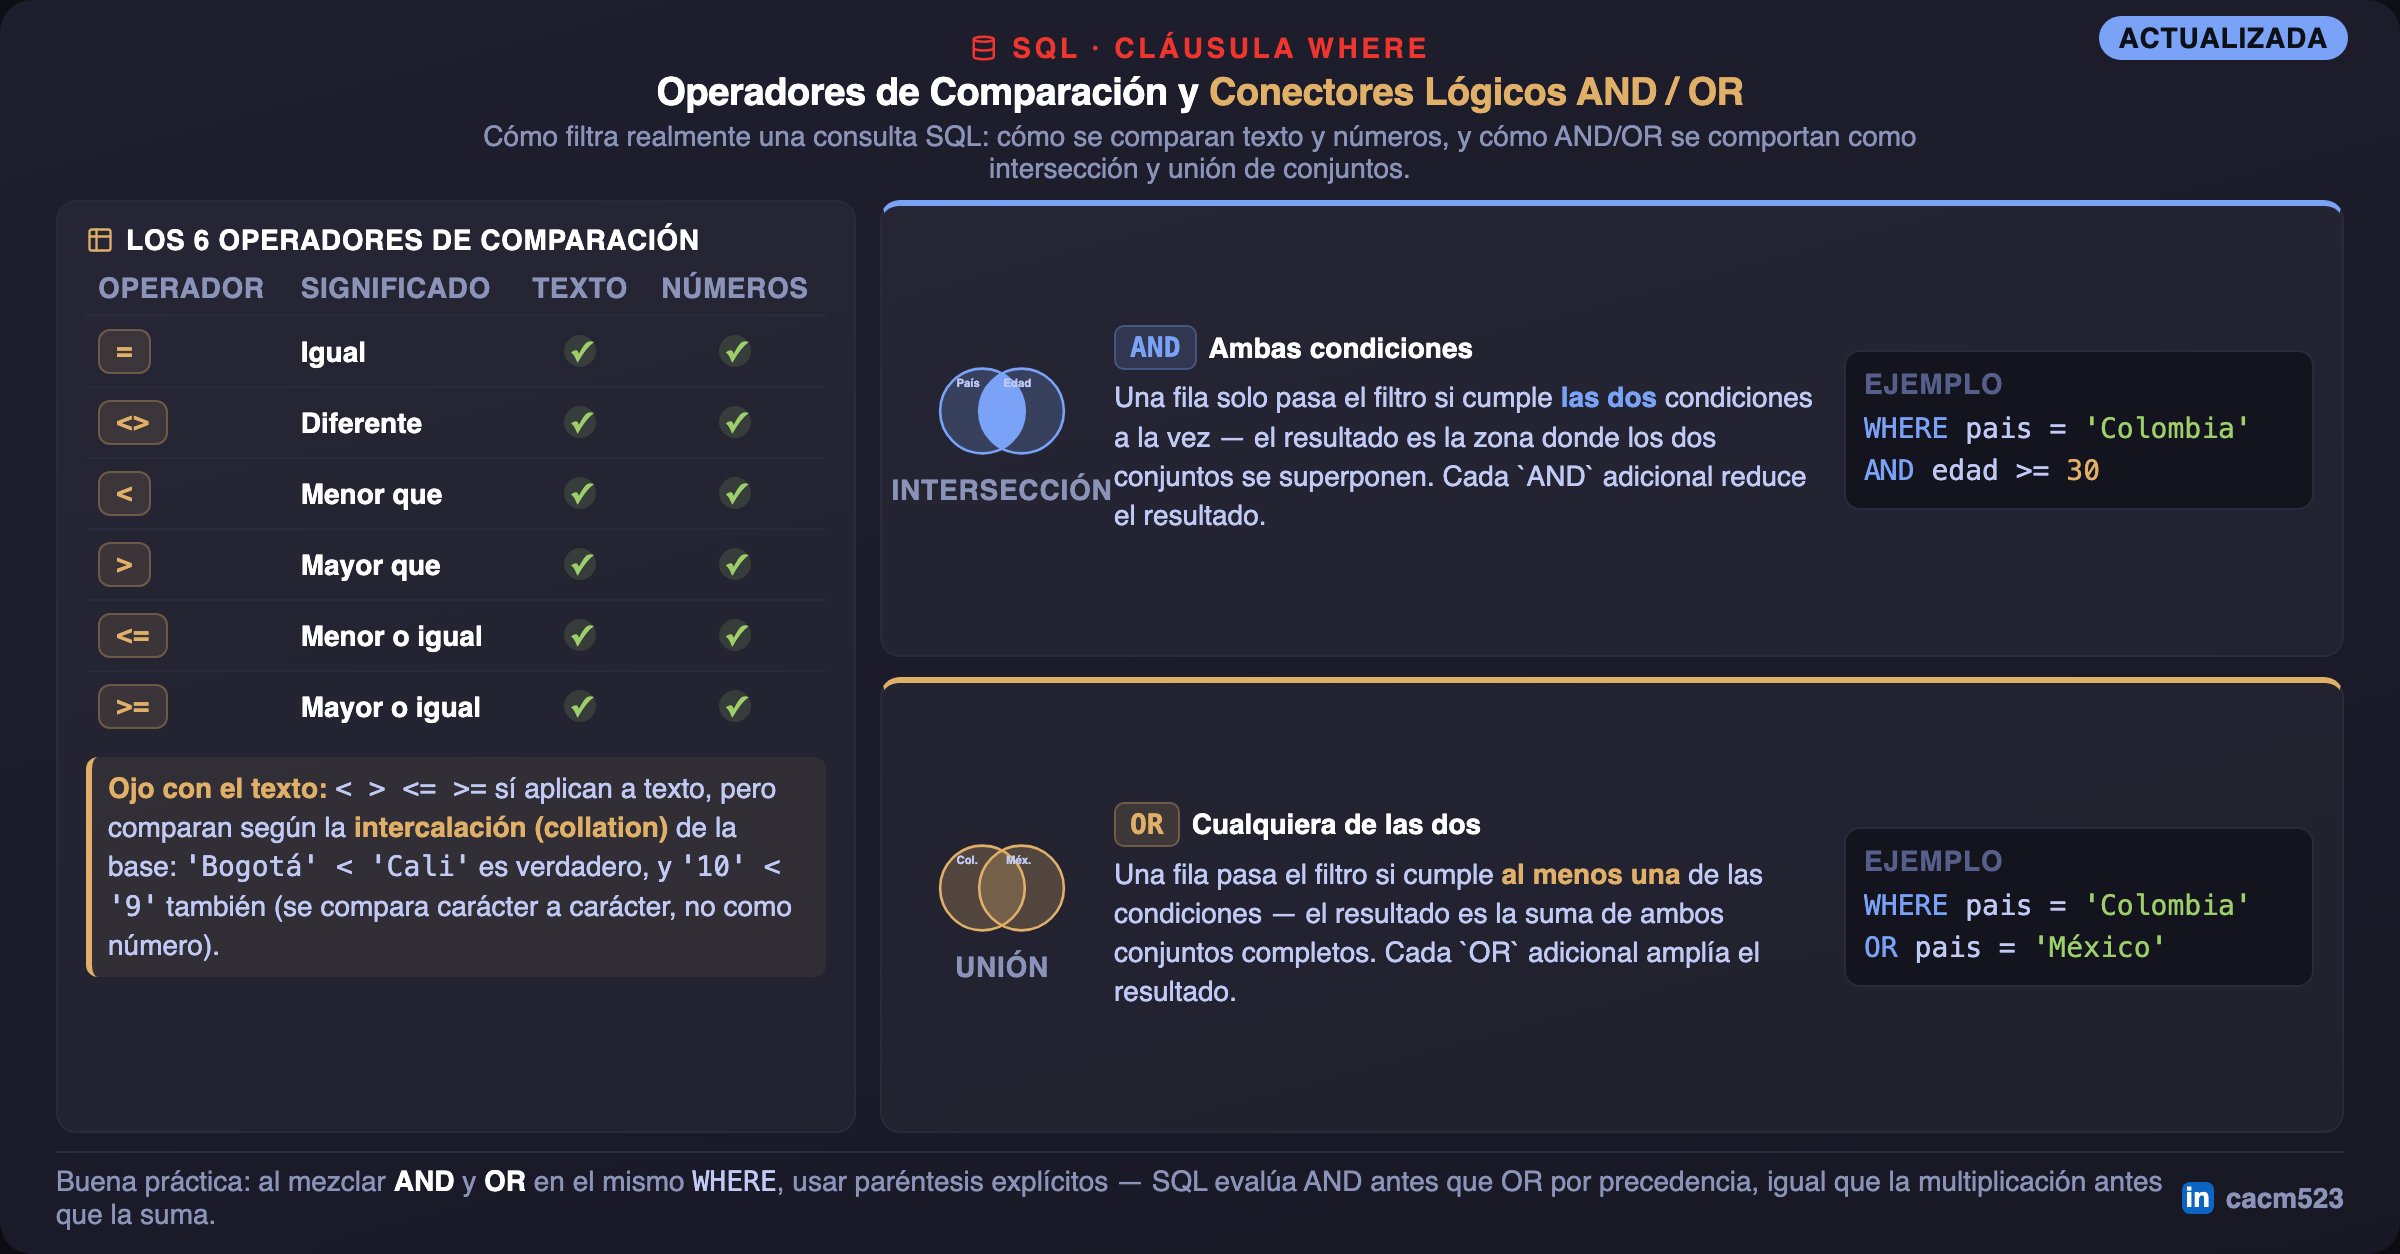
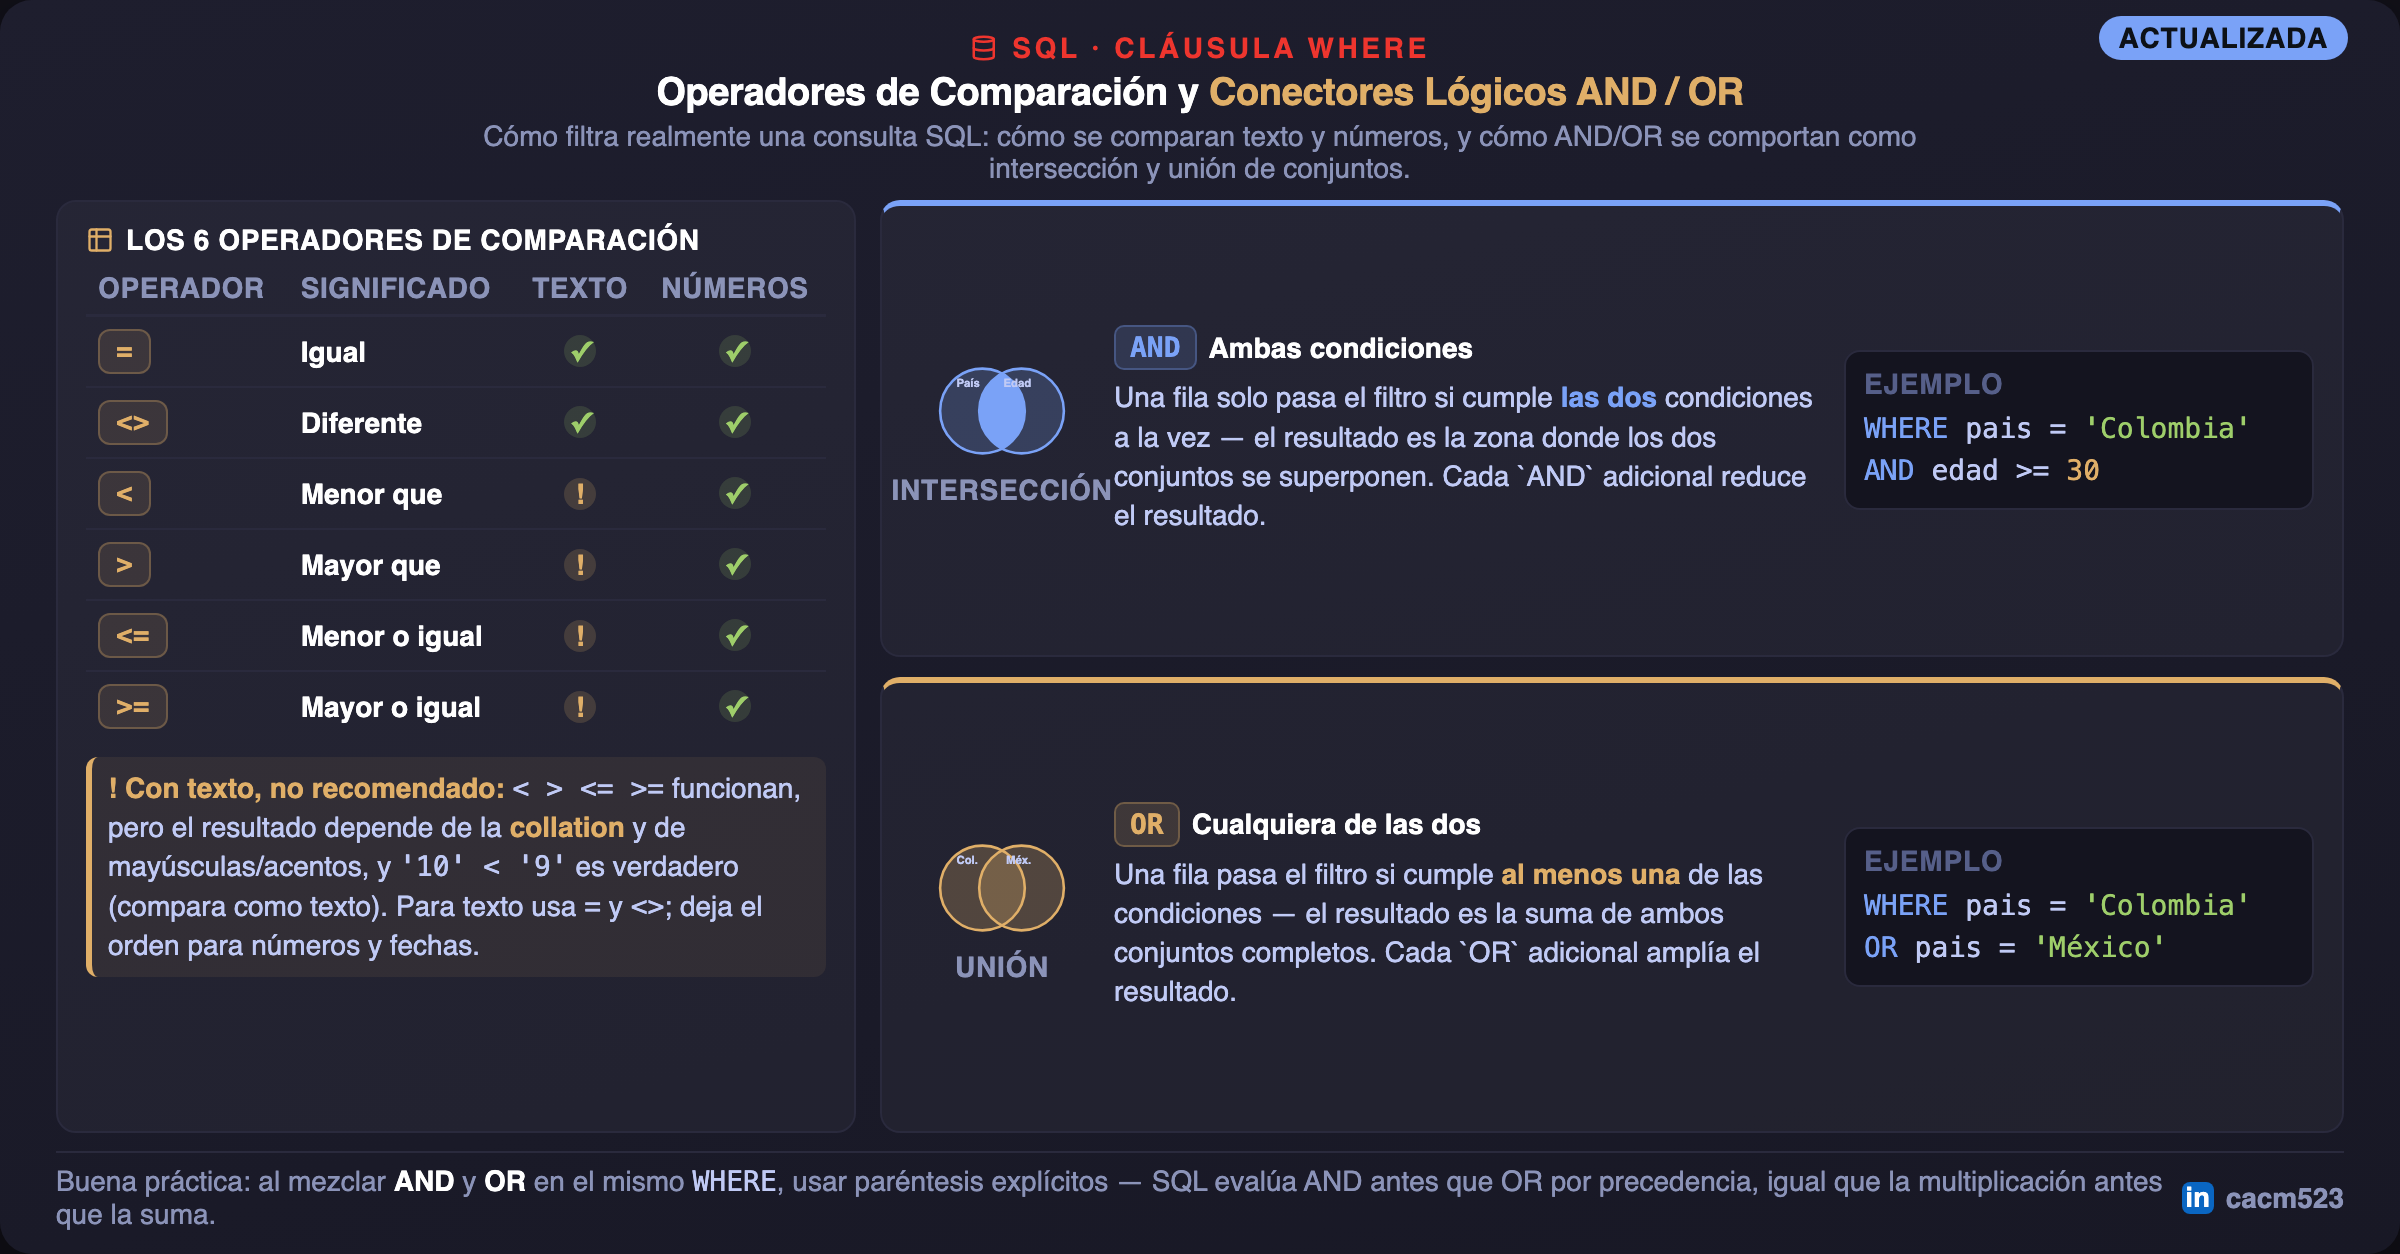
Operadores de orden con texto: marcar como no recomendado en SQL y Python

Changed region(s): [[0.0312, 0.622, 0.3438, 0.7775]]

diff --git a/Construidos/Python/operadores-logicos-comparacion-python.html b/Construidos/Python/operadores-logicos-comparacion-python.html
@@ -101,6 +101,7 @@
   .li-badge{ width:16px; height:16px; border-radius:4px; background:#0A66C2; color:#fff; display:flex; align-items:center; justify-content:center; font-size:14px; font-weight:800; font-family: Arial, sans-serif; }
   .sig span{ font-size:14px; font-weight:700; color:var(--muted); }
   .updated-badge{ position:absolute; top:11px; left:385px; background:var(--pyblue-dark); color:#fff; font-size:14px; font-weight:800; letter-spacing:.4px; text-transform:uppercase; padding:3px 10px; border-radius:20px; }
+  .warn{ display:inline-flex; width:16px; height:16px; border-radius:50%; background:rgba(180,130,0,0.18); color:#8A6500; align-items:center; justify-content:center; font-size:14px; font-weight:800; }
 </style>
 </head>
 <body>
@@ -135,13 +136,13 @@
           <tbody>
             <tr><td><span class="sym">==</span></td><td class="nm">Igual</td><td class="center"><span class="yes">✓</span></td><td class="center"><span class="yes">✓</span></td></tr>
             <tr><td><span class="sym">!=</span></td><td class="nm">Diferente</td><td class="center"><span class="yes">✓</span></td><td class="center"><span class="yes">✓</span></td></tr>
-            <tr><td><span class="sym">&lt;</span></td><td class="nm">Menor que</td><td class="center"><span class="yes">✓</span></td><td class="center"><span class="yes">✓</span></td></tr>
-            <tr><td><span class="sym">&gt;</span></td><td class="nm">Mayor que</td><td class="center"><span class="yes">✓</span></td><td class="center"><span class="yes">✓</span></td></tr>
-            <tr><td><span class="sym">&lt;=</span></td><td class="nm">Menor o igual</td><td class="center"><span class="yes">✓</span></td><td class="center"><span class="yes">✓</span></td></tr>
-            <tr><td><span class="sym">&gt;=</span></td><td class="nm">Mayor o igual</td><td class="center"><span class="yes">✓</span></td><td class="center"><span class="yes">✓</span></td></tr>
+            <tr><td><span class="sym">&lt;</span></td><td class="nm">Menor que</td><td class="center"><span class="warn">!</span></td><td class="center"><span class="yes">✓</span></td></tr>
+            <tr><td><span class="sym">&gt;</span></td><td class="nm">Mayor que</td><td class="center"><span class="warn">!</span></td><td class="center"><span class="yes">✓</span></td></tr>
+            <tr><td><span class="sym">&lt;=</span></td><td class="nm">Menor o igual</td><td class="center"><span class="warn">!</span></td><td class="center"><span class="yes">✓</span></td></tr>
+            <tr><td><span class="sym">&gt;=</span></td><td class="nm">Mayor o igual</td><td class="center"><span class="warn">!</span></td><td class="center"><span class="yes">✓</span></td></tr>
           </tbody>
         </table>
-        <div class="op-note"><b>Texto en Python:</b> <code style="font-family:'SF Mono',monospace">&lt; &gt; &lt;= &gt;=</code> comparan cadenas por código Unicode — <code style="font-family:'SF Mono',monospace">'ana' &lt; 'bruno'</code> es <b>True</b>, pero <code style="font-family:'SF Mono',monospace">'Z' &lt; 'a'</code> también (mayúsculas antes que minúsculas). En SQL el orden depende de la collation de la base.</div>
+        <div class="op-note"><b>! Con texto, no recomendado:</b> <code style="font-family:'SF Mono',monospace">&lt; &gt; &lt;= &gt;=</code> funcionan (comparan por Unicode), pero <code style="font-family:'SF Mono',monospace">'Z' &lt; 'a'</code> y <code style="font-family:'SF Mono',monospace">'10' &lt; '9'</code> son <b>True</b>. Para texto usa <code style="font-family:'SF Mono',monospace">==</code> y <code style="font-family:'SF Mono',monospace">!=</code>; deja el orden para números.</div>
 
         <div class="idpanel">
           <h2><svg viewBox="0 0 24 24" fill="none" stroke="currentColor" stroke-width="2" stroke-linecap="round" stroke-linejoin="round"><circle cx="12" cy="12" r="9"/><path d="M9.5 9a2.5 2.5 0 0 1 5 0c0 1.5-2.5 2-2.5 3.5M12 17h.01"/></svg>Potenciado: identidad y pertenencia</h2>

diff --git a/Construidos/SQL/operadores-comparacion-and-or-sql.html b/Construidos/SQL/operadores-comparacion-and-or-sql.html
@@ -84,6 +84,7 @@
   .li-badge{ width:16px; height:16px; border-radius:4px; background:#0A66C2; color:#fff; display:flex; align-items:center; justify-content:center; font-size:14px; font-weight:800; font-family: Arial, sans-serif; }
   .sig span{ font-size:14px; font-weight:700; color:var(--muted); }
   .updated-badge{ position:absolute; top:8px; right:26px; background:var(--keyword); color:#0D1117; font-size:14px; font-weight:800; letter-spacing:.4px; text-transform:uppercase; padding:3px 10px; border-radius:20px; }
+  .warn{ display:inline-flex; width:16px; height:16px; border-radius:50%; background:rgba(224,175,104,0.18); color:#E0AF68; align-items:center; justify-content:center; font-size:14px; font-weight:800; }
 </style>
 </head>
 <body>
@@ -112,13 +113,13 @@
           <tbody>
             <tr><td><span class="sym">=</span></td><td class="nm">Igual</td><td class="center"><span class="yes">✓</span></td><td class="center"><span class="yes">✓</span></td></tr>
             <tr><td><span class="sym">&lt;&gt;</span></td><td class="nm">Diferente</td><td class="center"><span class="yes">✓</span></td><td class="center"><span class="yes">✓</span></td></tr>
-            <tr><td><span class="sym">&lt;</span></td><td class="nm">Menor que</td><td class="center"><span class="yes">✓</span></td><td class="center"><span class="yes">✓</span></td></tr>
-            <tr><td><span class="sym">&gt;</span></td><td class="nm">Mayor que</td><td class="center"><span class="yes">✓</span></td><td class="center"><span class="yes">✓</span></td></tr>
-            <tr><td><span class="sym">&lt;=</span></td><td class="nm">Menor o igual</td><td class="center"><span class="yes">✓</span></td><td class="center"><span class="yes">✓</span></td></tr>
-            <tr><td><span class="sym">&gt;=</span></td><td class="nm">Mayor o igual</td><td class="center"><span class="yes">✓</span></td><td class="center"><span class="yes">✓</span></td></tr>
+            <tr><td><span class="sym">&lt;</span></td><td class="nm">Menor que</td><td class="center"><span class="warn">!</span></td><td class="center"><span class="yes">✓</span></td></tr>
+            <tr><td><span class="sym">&gt;</span></td><td class="nm">Mayor que</td><td class="center"><span class="warn">!</span></td><td class="center"><span class="yes">✓</span></td></tr>
+            <tr><td><span class="sym">&lt;=</span></td><td class="nm">Menor o igual</td><td class="center"><span class="warn">!</span></td><td class="center"><span class="yes">✓</span></td></tr>
+            <tr><td><span class="sym">&gt;=</span></td><td class="nm">Mayor o igual</td><td class="center"><span class="warn">!</span></td><td class="center"><span class="yes">✓</span></td></tr>
           </tbody>
         </table>
-        <div class="op-note"><b>Ojo con el texto:</b> <code style="font-family:'SF Mono',monospace">&lt; &gt; &lt;= &gt;=</code> sí aplican a texto, pero comparan según la <b>intercalación (collation)</b> de la base: <code style="font-family:'SF Mono',monospace">'Bogotá' &lt; 'Cali'</code> es verdadero, y <code style="font-family:'SF Mono',monospace">'10' &lt; '9'</code> también (se compara carácter a carácter, no como número).</div>
+        <div class="op-note"><b><span style="color:#E0AF68">!</span> Con texto, no recomendado:</b> <code style="font-family:'SF Mono',monospace">&lt; &gt; &lt;= &gt;=</code> funcionan, pero el resultado depende de la <b>collation</b> y de mayúsculas/acentos, y <code style="font-family:'SF Mono',monospace">'10' &lt; '9'</code> es verdadero (compara como texto). Para texto usa <code style="font-family:'SF Mono',monospace">=</code> y <code style="font-family:'SF Mono',monospace">&lt;&gt;</code>; deja el orden para números y fechas.</div>
         
           
         

diff --git a/Construidos/SQL/operadores-comparacion-and-or-sql.prompt.md b/Construidos/SQL/operadores-comparacion-and-or-sql.prompt.md
@@ -201,3 +201,5 @@ Paleta verde + tierra por defecto del proyecto (no es una pieza sobre una aplica
 ## Corrección (2026-10-06)
 
 El usuario pidió revisar la afirmación sobre operadores de orden con texto. Verificado: en Python `<`, `>`, `<=`, `>=` **sí** funcionan con cadenas (comparación por código Unicode: `'ana' < 'bruno'` y `'Z' < 'a'` son `True`), y en SQL ANSI también aplican a `CHAR`/`VARCHAR` según la collation de la base (`'Bogotá' < 'Cali'` es verdadero; `'10' < '9'` también, por comparar como texto). La versión anterior de la pieza SQL afirmaba lo contrario (✕ en texto, "solo `=` y `<>` aplican") y la pieza Python repetía esa falsa diferencia frente a SQL — ambas corregidas, con insignia "Actualizada". Versiones previas archivadas en `Archivadas/*-2026-10-06/`.
+
+**Ajuste final (mismo día)**: el usuario aclaró que comparar texto con operadores de orden no es una práctica correcta. Se mantiene la precisión técnica (funcionan) pero ambas piezas ahora marcan `< > <= >=` con texto como "!" (válido pero no recomendado) y recomiendan `=`/`<>` (SQL) y `==`/`!=` (Python) para texto.

diff --git a/Construidos/Python/operadores-logicos-comparacion-python.prompt.md b/Construidos/Python/operadores-logicos-comparacion-python.prompt.md
@@ -20,3 +20,5 @@
 ## Corrección (2026-10-06)
 
 El usuario pidió revisar la afirmación sobre operadores de orden con texto. Verificado: en Python `<`, `>`, `<=`, `>=` **sí** funcionan con cadenas (comparación por código Unicode: `'ana' < 'bruno'` y `'Z' < 'a'` son `True`), y en SQL ANSI también aplican a `CHAR`/`VARCHAR` según la collation de la base (`'Bogotá' < 'Cali'` es verdadero; `'10' < '9'` también, por comparar como texto). La versión anterior de la pieza SQL afirmaba lo contrario (✕ en texto, "solo `=` y `<>` aplican") y la pieza Python repetía esa falsa diferencia frente a SQL — ambas corregidas, con insignia "Actualizada". Versiones previas archivadas en `Archivadas/*-2026-10-06/`.
+
+**Ajuste final (mismo día)**: el usuario aclaró que comparar texto con operadores de orden no es una práctica correcta. Se mantiene la precisión técnica (funcionan) pero ambas piezas ahora marcan `< > <= >=` con texto como "!" (válido pero no recomendado) y recomiendan `=`/`<>` (SQL) y `==`/`!=` (Python) para texto.
